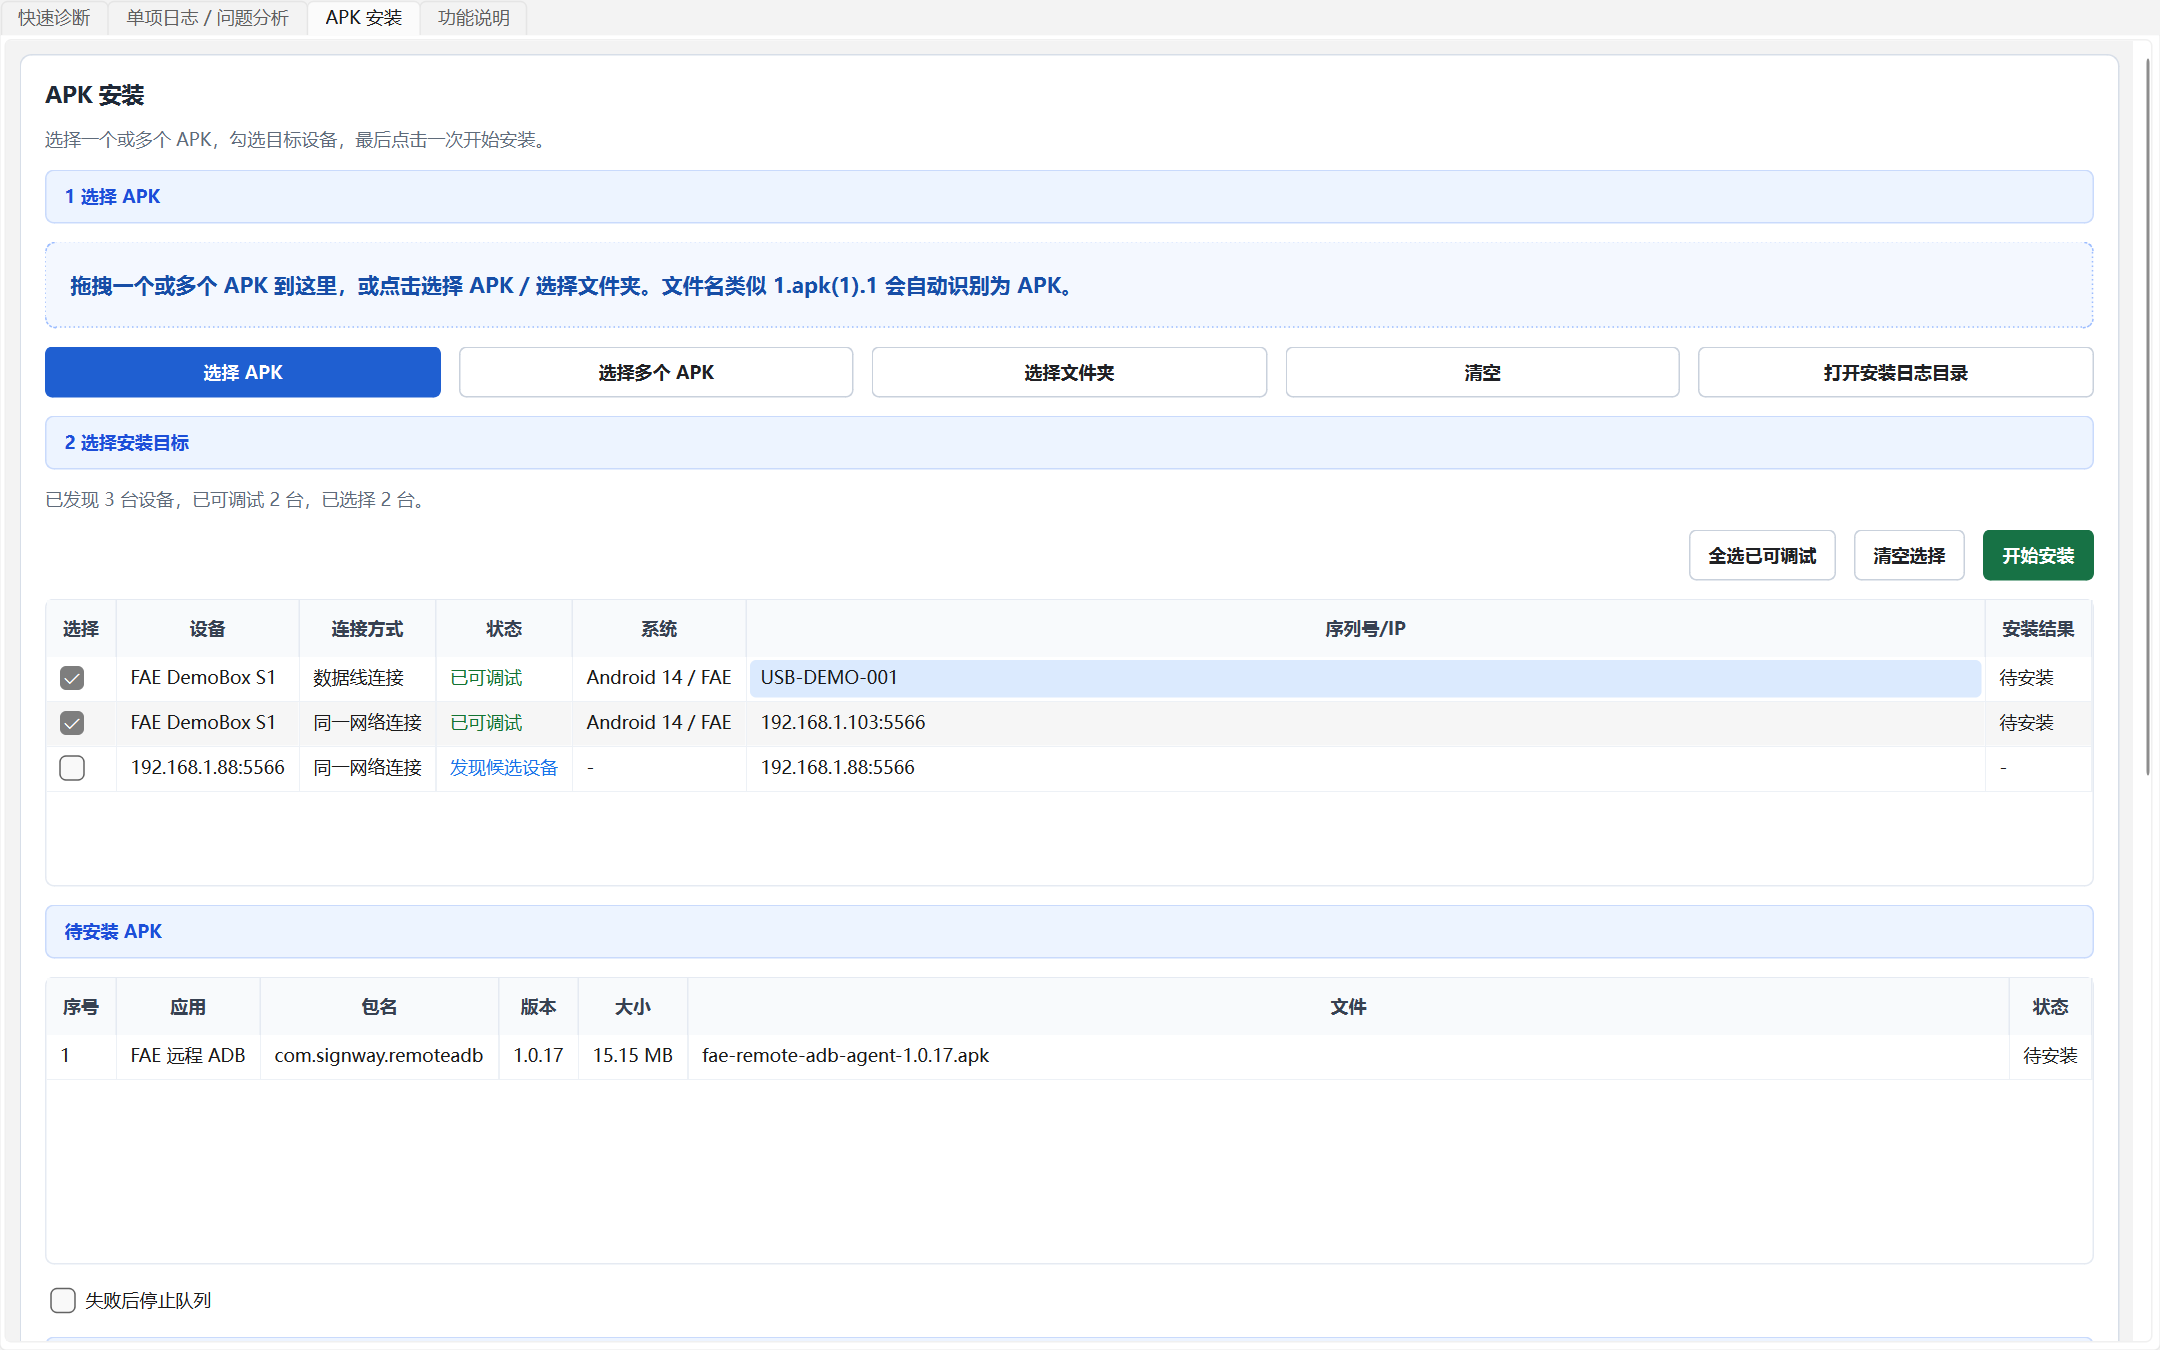
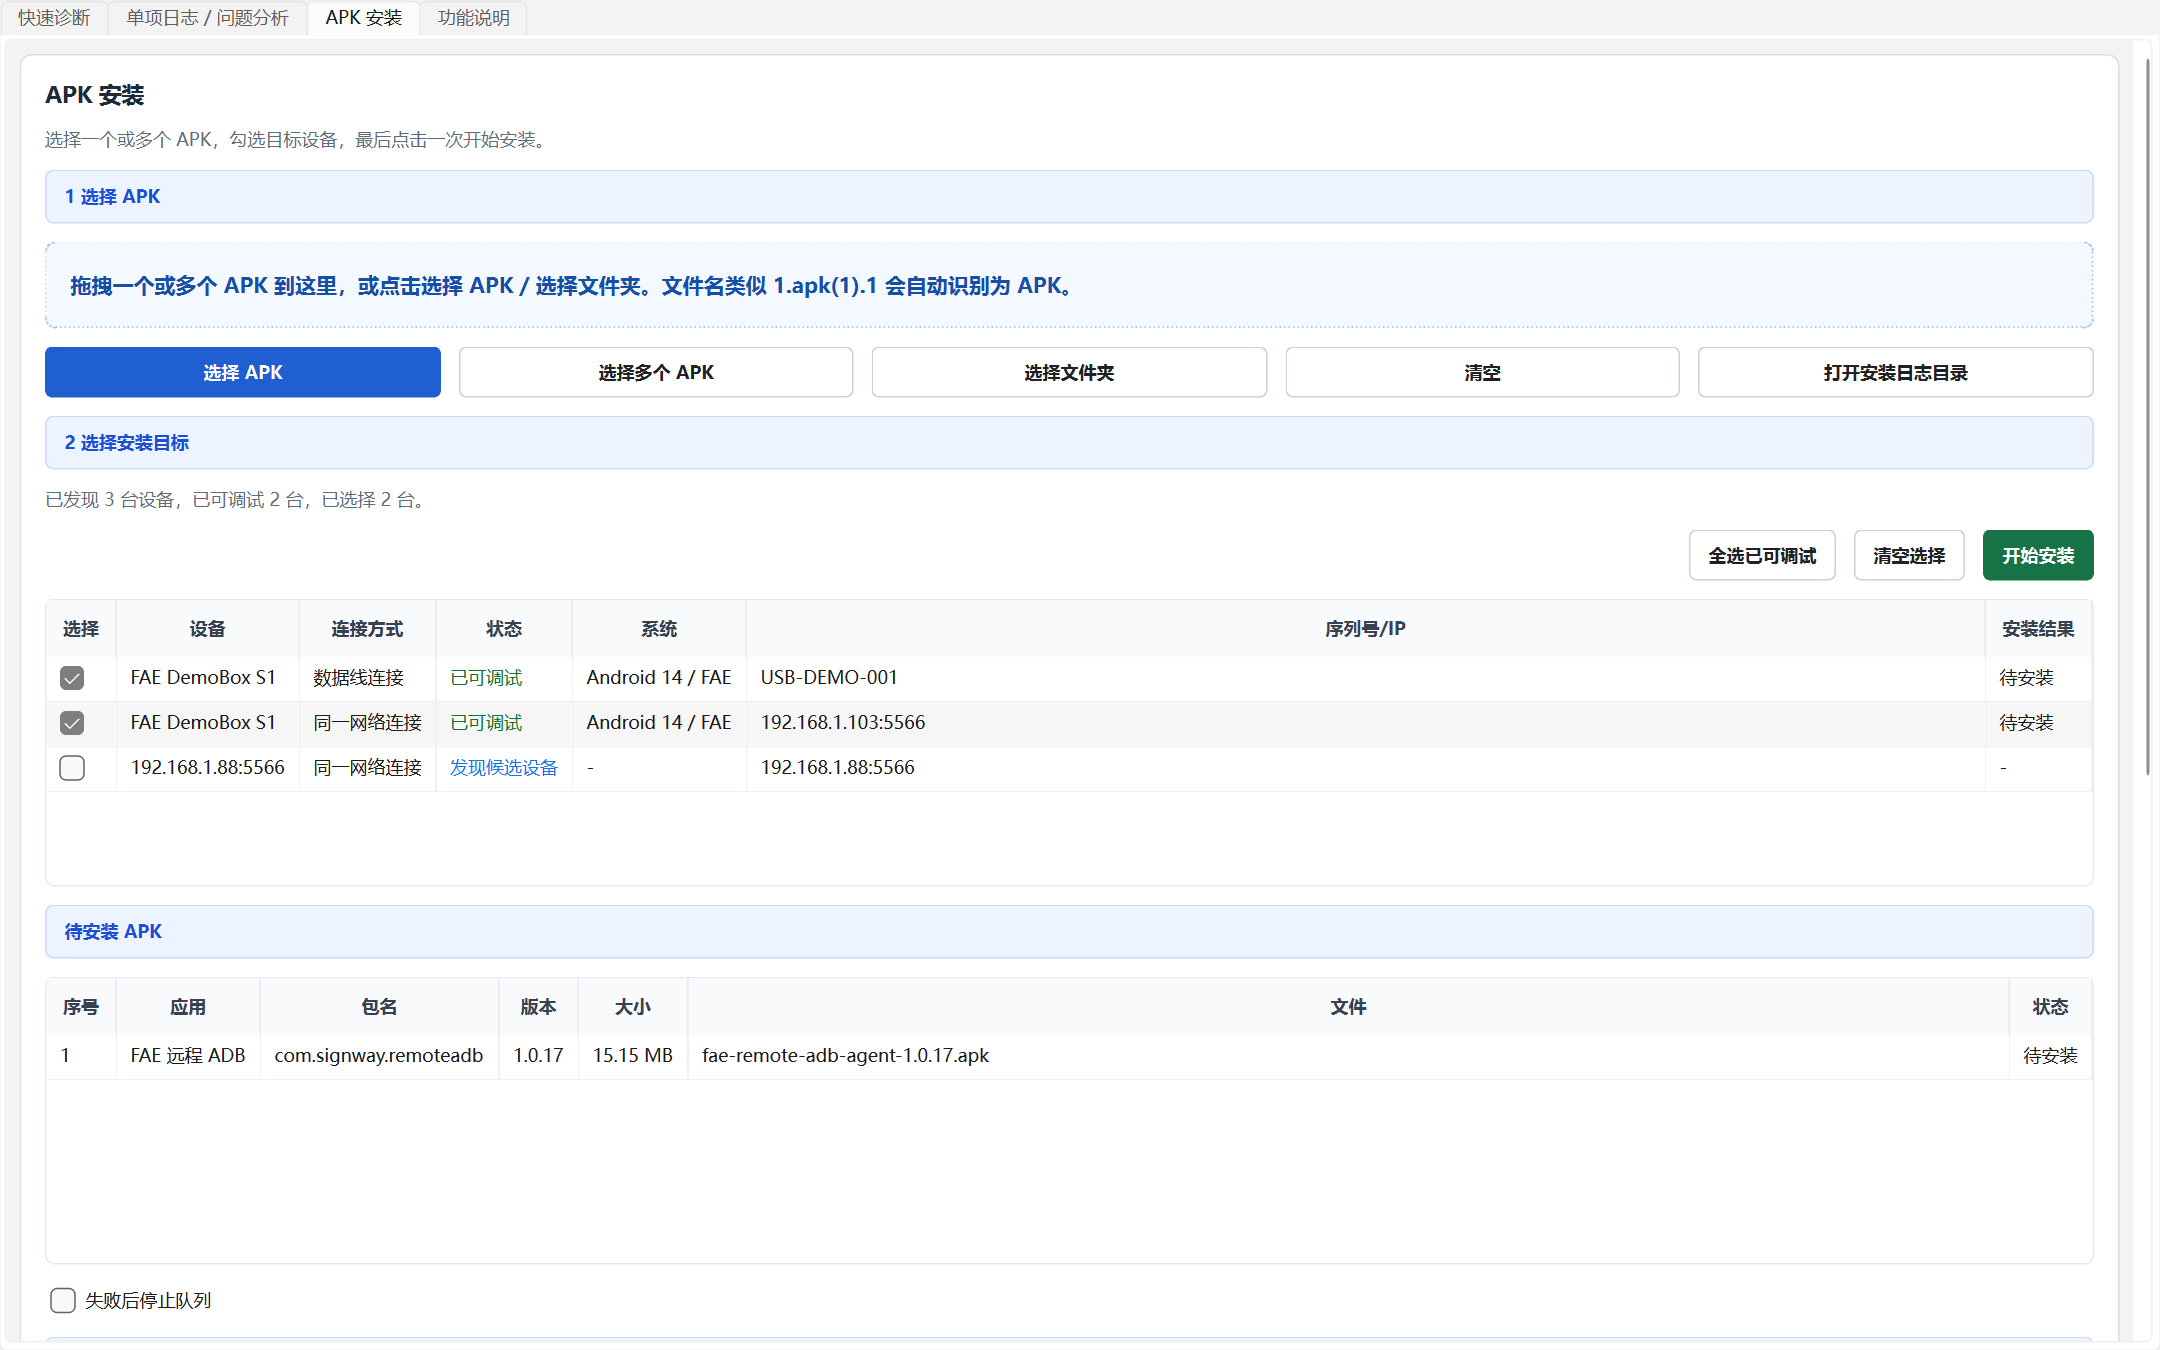
Release Android ADB Diagnostic Tool v1.1.0

Changed region(s): [[0.3412, 0.4667, 0.9306, 0.5289]]

diff --git a/Android_ADB_Diagnostic_Tool/tests/test_core_behaviors.py b/Android_ADB_Diagnostic_Tool/tests/test_core_behaviors.py
@@ -1242,6 +1242,18 @@ class CoreBehaviorTests(unittest.TestCase):
         self.assertIn("version='version_info.txt'", spec)
         self.assertTrue((root / "version_info.txt").exists())
 
+    def test_release_version_is_visible_in_window_and_header(self):
+        from app.core.version import APP_VERSION, APP_WINDOW_TITLE
+
+        window = main_window_module.MainWindow()
+        try:
+            self.assertEqual(APP_VERSION, "1.1.0")
+            self.assertIn(f"v{APP_VERSION}", APP_WINDOW_TITLE)
+            self.assertEqual(window.windowTitle(), APP_WINDOW_TITLE)
+            self.assertIn(f"v{APP_VERSION}", window.app_title.text())
+        finally:
+            window.close()
+
 
 if __name__ == "__main__":
     unittest.main()

diff --git a/Android_ADB_Diagnostic_Tool/app/gui/main_window.py b/Android_ADB_Diagnostic_Tool/app/gui/main_window.py
@@ -41,6 +41,7 @@ from app.core.single_log_collector import SingleLogCollector, analyze_log_text
 from app.core.remount_status import evaluate_remount_result
 from app.core.status_messages import status_detail
 from app.core.utils import app_base_dir, ensure_dir, open_in_explorer, quote_command, sanitize_filename, timestamp
+from app.core.version import APP_WINDOW_TITLE
 from app.gui.connection_panel import ConnectionPanel
 from app.gui.adb_debug_window import AdbDebugWindow
 from app.gui.apk_install_panel import ApkInstallPanel
@@ -100,7 +101,7 @@ class MainWindow(QMainWindow):
         self.adb_debug_window: AdbDebugWindow | None = None
         self.single_live_worker: LiveLogWorker | None = None
         self.single_live_file: Path | None = None
-        self.setWindowTitle("Android 通用 ADB 诊断助手")
+        self.setWindowTitle(APP_WINDOW_TITLE)
         self.resize(1080, 760)
         self.setMinimumSize(640, 420)
         self._build_ui()
@@ -208,8 +209,8 @@ class MainWindow(QMainWindow):
 
         top = QHBoxLayout()
         heading = QVBoxLayout()
-        title = QLabel("Android 通用 ADB 诊断助手")
-        title.setStyleSheet("font-size: 22px; font-weight: 800; color: #111827;")
+        self.app_title = QLabel(APP_WINDOW_TITLE)
+        self.app_title.setStyleSheet("font-size: 22px; font-weight: 800; color: #111827;")
         subtitle = QLabel("先找到设备，再对选中设备执行诊断、投屏、日志或 APK 安装。")
         subtitle.setWordWrap(True)
         subtitle.setStyleSheet(MUTED_TEXT_STYLE)
@@ -218,7 +219,7 @@ class MainWindow(QMainWindow):
         self.current_device_detail = QLabel("请先连接或扫描设备。")
         self.current_device_detail.setWordWrap(True)
         self.current_device_detail.setStyleSheet(MUTED_TEXT_STYLE)
-        heading.addWidget(title)
+        heading.addWidget(self.app_title)
         heading.addWidget(subtitle)
         heading.addSpacing(6)
         heading.addWidget(self.current_device_name)

diff --git a/Android_ADB_Diagnostic_Tool/app/core/version.py b/Android_ADB_Diagnostic_Tool/app/core/version.py
@@ -1,0 +1,5 @@
+from __future__ import annotations
+
+APP_VERSION = "1.1.0"
+APP_NAME = "Android 通用 ADB 诊断助手"
+APP_WINDOW_TITLE = f"{APP_NAME} v{APP_VERSION}"

diff --git a/Android_ADB_Diagnostic_Tool/main.py b/Android_ADB_Diagnostic_Tool/main.py
@@ -5,6 +5,7 @@ import sys
 from app.core.adb_manager import AdbManager
 from app.core.screen_mirror import find_scrcpy
 from app.core.utils import resource_base_dir
+from app.core.version import APP_NAME, APP_VERSION
 
 
 def smoke_test() -> int:
@@ -31,7 +32,8 @@ def main() -> int:
     from app.gui.main_window import MainWindow
 
     app = QApplication(sys.argv)
-    app.setApplicationName("Android 通用 ADB 诊断助手")
+    app.setApplicationName(APP_NAME)
+    app.setApplicationVersion(APP_VERSION)
     window = MainWindow()
     window.show()
     return app.exec()

diff --git a/Android_ADB_Diagnostic_Tool/README.md b/Android_ADB_Diagnostic_Tool/README.md
@@ -2,6 +2,8 @@
 
 这是一个面向普通客户和 FAE 工程师的 Windows 桌面 ADB 诊断工具。客户不需要理解命令行，只需要连接 Android 设备、点击“检测设备”，再点击“一键生成诊断包”，即可得到可发送给工程师分析的 zip 文件。
 
+当前发布版本：`v1.1.0`
+
 ## 软件界面
 
 > 截图使用演示设备和演示 APK，不包含真实客户设备信息。
@@ -190,6 +192,14 @@ adb pair IP:PORT PAIRING_CODE
 - 可检查 `README.md`、`commands.yaml`、`build_exe.bat` 是否存在。
 
 ## 更新说明
+
+### 2026-06-29 - v1.1.0
+
+- 发布 `Android_ADB_Diagnostic_Tool.exe` v1.1.0。
+- 程序窗口标题和首页标题显示版本号，Windows EXE 文件属性写入 `1.1.0.0`。
+- 新增设备连接中心、同一网络扫描、默认 `5566` 端口、网络范围管理和无线调试配对。
+- 新增 APK 安装页：支持选择/拖拽一个或多个 APK，勾选多台设备后统一点击“开始安装”。
+- APK 选择后解析应用名称、包名、版本、大小和 MD5；安装后通过 `pm path` 校验，避免实际成功但界面误报失败。
 
 ### 2026-06-01
 